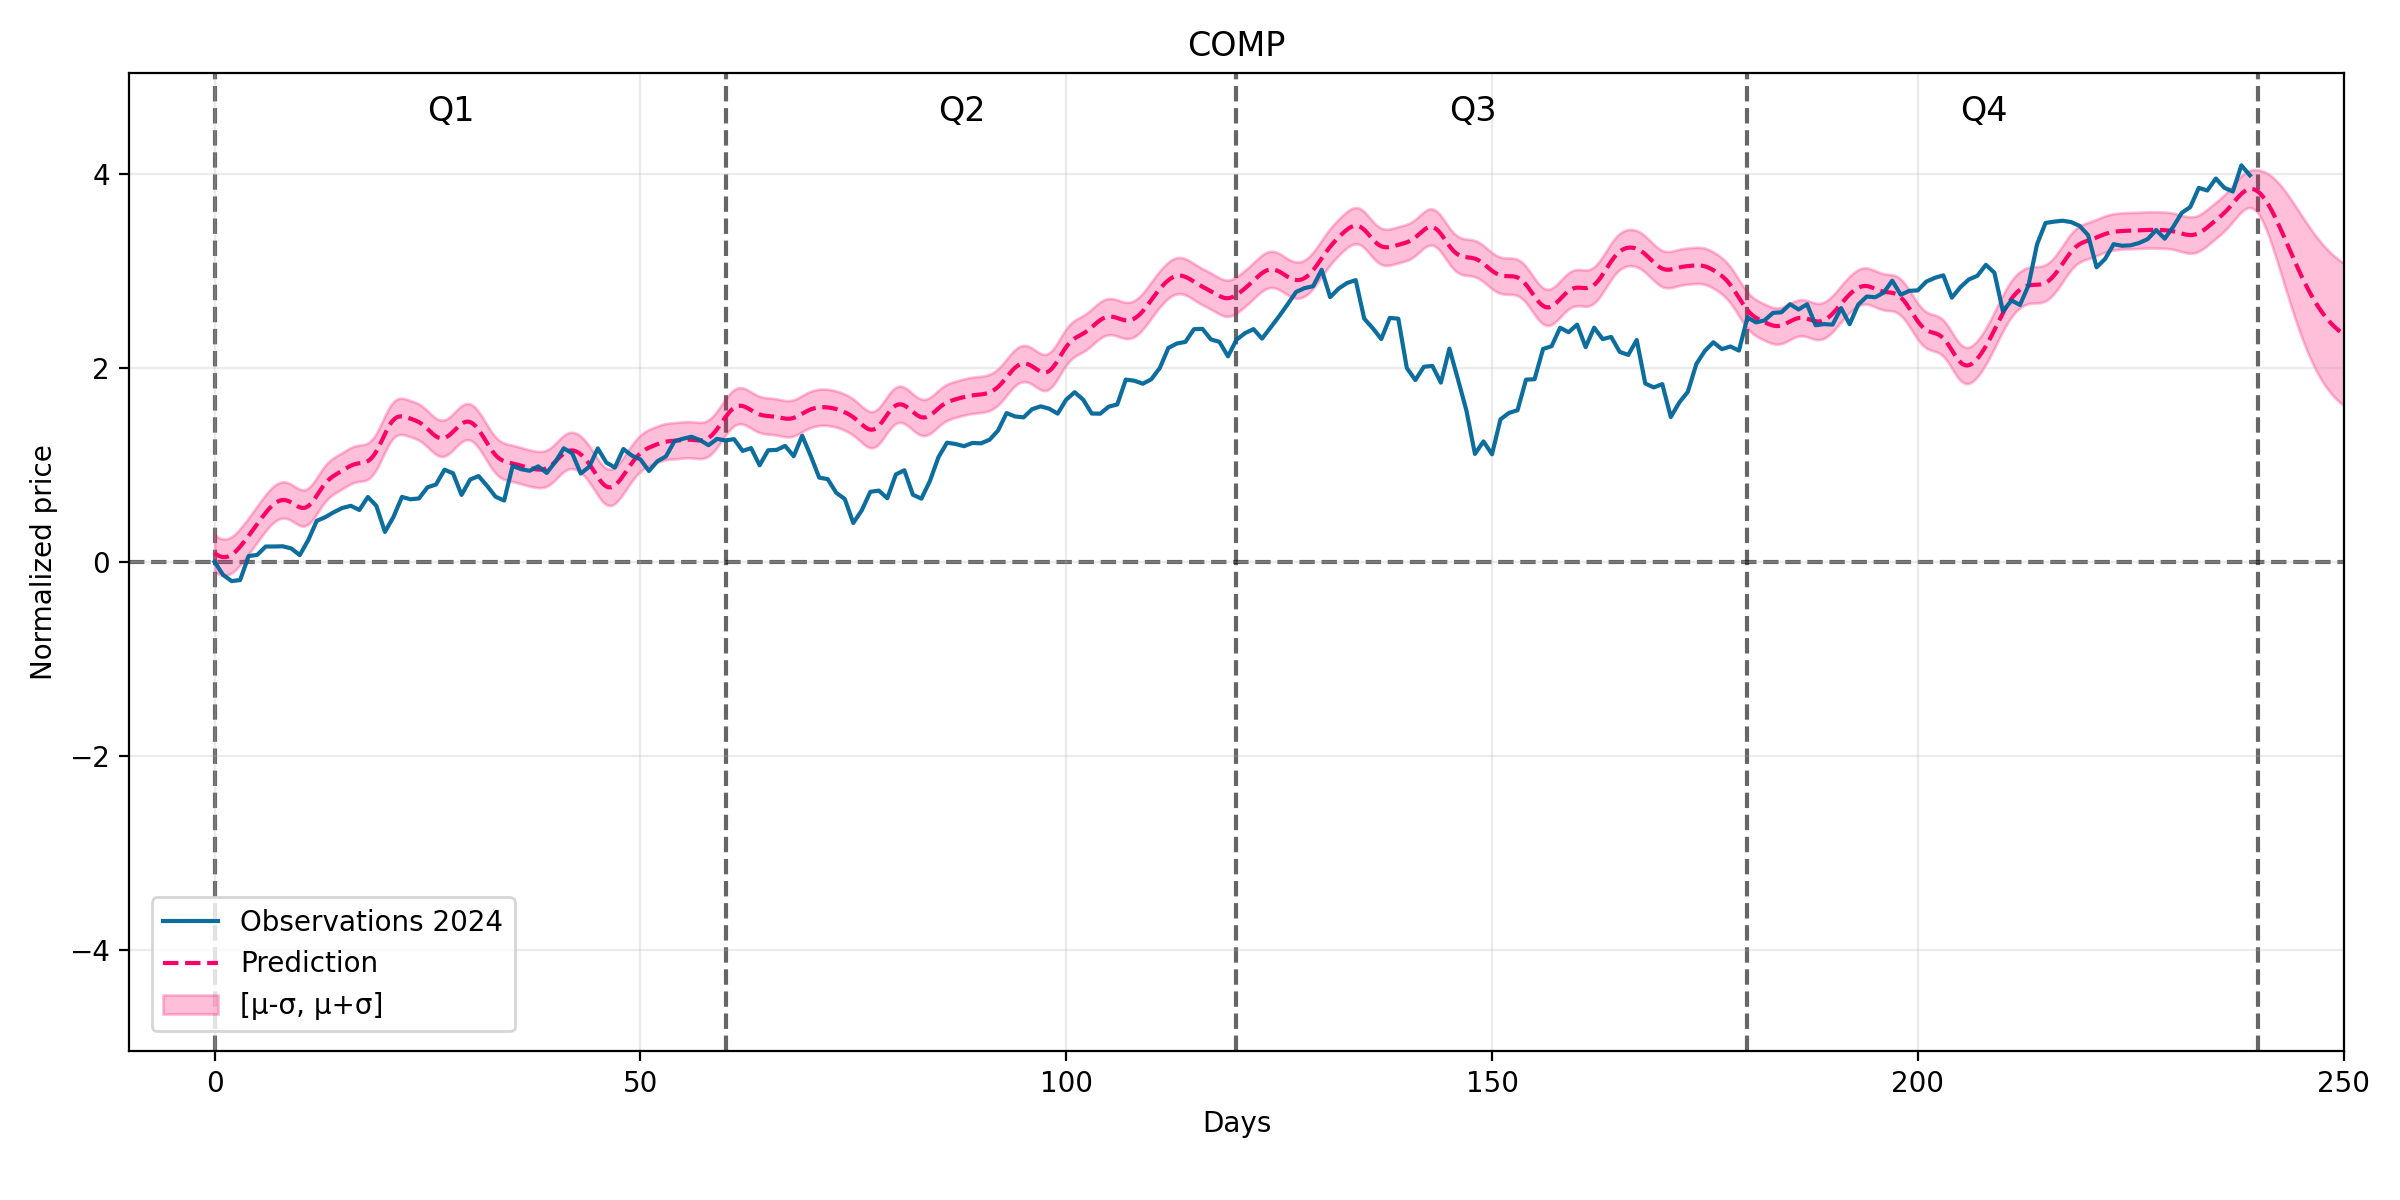
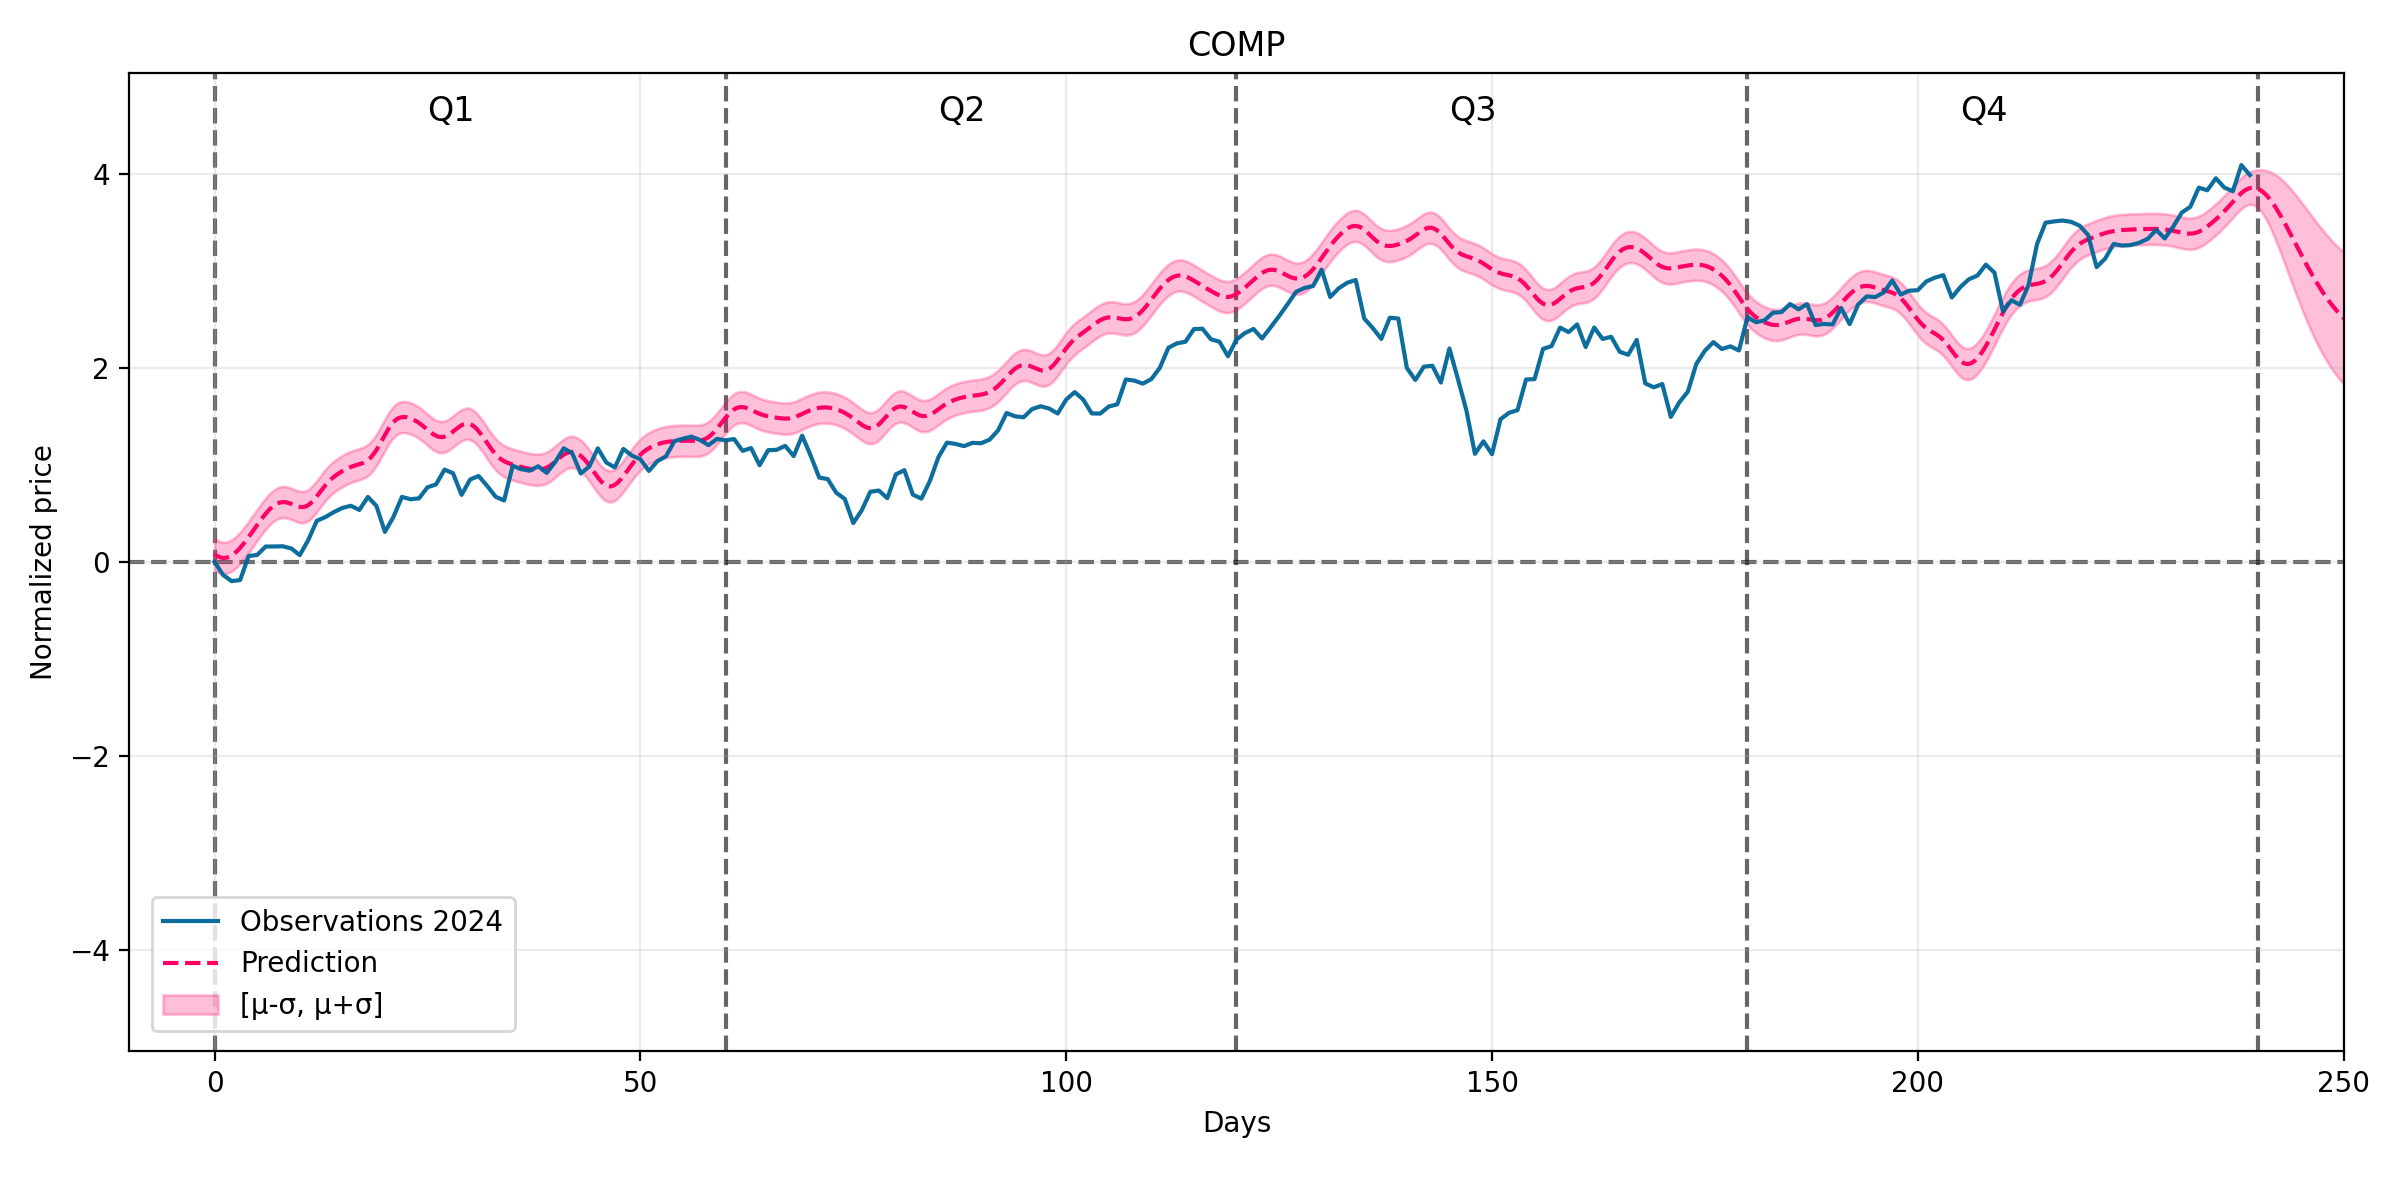
the Final

diff --git a/model/GaussianProcess.py b/model/GaussianProcess.py
@@ -12,23 +12,14 @@ class ExactGPModel(gpytorch.models.ExactGP):
     """
     def __init__(self, train_x, train_y, likelihood):
         super().__init__(train_x, train_y, likelihood)
-        # 均值函数
-#         self.mean_module = gpytorch.means.ConstantMean()
-#         # 卷积核函数，ScaleKernel 包裹 RBFKernel
-#         # self.covar_module = gpytorch.kernels.ScaleKernel(gpytorch.kernels.RBFKernel())
-#         #尝试不同的卷积核心函数
-#         self.covar_module = gpytorch.kernels.ScaleKernel(
-#     gpytorch.kernels.MaternKernel(nu=2.5,lengthscale=0.001)
-# )
-# 使用线性均值函数，拟合数据中的趋势
-        # 均值函数：线性均值函数，用于捕捉股票的长期趋势
+
         # __import__('ipdb').set_trace()
         self.mean_module = gpytorch.means.ConstantMean()
         
         # 卷积核函数：复合核函数，结合了不同的核函数
         self.covar_module = gpytorch.kernels.ScaleKernel(
             # Matern 核，适用于波动性
-            gpytorch.kernels.MaternKernel(nu=2.5, lengthscale=0.05) 
+            gpytorch.kernels.MaternKernel(nu=2.5, lengthscale=0.005) 
             + 
             # RBF 核，适用于平滑的长期趋势
             gpytorch.kernels.RBFKernel(lengthscale=0.1)
@@ -52,13 +43,11 @@ class GPR:
         self.years = self.company_data.years
         self.max_days = self.company_data.max_days
 
-        # GPyTorch 相关属性
         self.model = None
         self.likelihood = None
         self.kernels = []
 
-        # 训练迭代次数，可以根据需求调整
-        self.iterations = 80
+        self.iterations = 120
 
     def get_eval_model(self, start_year: int, end_year: int, pred_year: int, pred_quarters: list = None):
         """
@@ -69,16 +58,15 @@ class GPR:
         :param pred_quarters: 预测季度列表
         :return: (x_mesh, y_mean, y_cov)
         """
-        # 1. 准备训练数据 X, Y
+
         years_quarters = list(range(start_year, end_year + 1)) + ['Quarter']
         training_years = years_quarters[:-2]
-        #__import__('ipdb').set_trace()
         df_prices = self.prices_data[self.prices_data.columns.intersection(years_quarters)]#!升序的
-        #__import__('ipdb').set_trace()
+
 
         possible_days = list(df_prices.index.values)
         
-        # 处理第一个年份数据
+        # first year prices
         first_year_prices = df_prices[start_year]
         if start_year == self.company_data.years[0]:
             first_year_prices = first_year_prices[first_year_prices != 0]
@@ -86,18 +74,16 @@ class GPR:
                 pd.Series([0.0], index=[first_year_prices.index[0] - 1]),
                 first_year_prices
             ])
-        # __import__('ipdb').set_trace()
-        # 收集所有训练数据
+
         data_X = []
         data_Y = []
 
-        # 已经处理好的 first_year_prices
         first_year_days = first_year_prices.index.values
         for day in first_year_days:
             data_X.append([start_year, day])
         data_Y.extend(first_year_prices.values)
 
-        # 处理剩余年份
+        # other years prices
         for current_year in training_years[1:]:
             current_year_prices = df_prices[current_year].dropna().values
             current_year_days = possible_days[:len(current_year_prices)]
@@ -105,7 +91,7 @@ class GPR:
                 data_X.append([current_year, day])
             data_Y.extend(current_year_prices)
 
-        # 处理最后一年的数据
+        # last year prices
         last_year_prices = df_prices[end_year].dropna()
         if pred_quarters is not None:
             length = 63 * (pred_quarters[0] - 1)
@@ -118,7 +104,7 @@ class GPR:
         X = np.array(data_X)
         Y = np.array(data_Y)
 
-        # 2. 准备预测数据 x_pred
+        # predict days
         if pred_quarters is not None:
             pred_days = list(range(63 * (pred_quarters[0] - 1), 63 * pred_quarters[-1]))
         else:
@@ -127,28 +113,24 @@ class GPR:
         x_mesh = np.linspace(pred_days[0], pred_days[-1], 2000)
         x_pred = np.column_stack((np.full_like(x_mesh, pred_year), x_mesh))
 
-        # 3. 构建 GPyTorch 模型和似然函数
+        # 构建 GPyTorch 模型和似然函数
         self.likelihood = gpytorch.likelihoods.GaussianLikelihood()
         train_x = torch.from_numpy(X).float()
         train_y = torch.from_numpy(Y).float()
 
         self.model = ExactGPModel(train_x, train_y, self.likelihood)
 
-        # 4. 训练模型，使用 tqdm 显示进度
+
         self.model.train()
         self.likelihood.train()
 
-        # optimizer = torch.optim.Adam([
-        # {'params': self.model.mean_module.parameters(), 'lr': 0.08},  # 仅包含模型均值部分参数
-        # {'params': self.model.covar_module.parameters(), 'lr': 0.08}, # 仅包含模型协方差部分参数
-        # {'params': self.likelihood.parameters(), 'lr': 0.08},         # 仅包含似然部分参数
-        # ])
+
         optimizer = torch.optim.Adam([
-            {'params': self.model.parameters()},  # 模型参数
+            {'params': self.model.parameters()},  
         ], lr=0.1)
         mll = gpytorch.mlls.ExactMarginalLogLikelihood(self.likelihood, self.model)
 
-        # 训练循环
+        # Training
         for _ in tqdm(range(self.iterations), desc="Training GPyTorch GP", unit="iter"):
             optimizer.zero_grad()
             output = self.model(train_x)
@@ -158,7 +140,7 @@ class GPR:
             optimizer.step()
 
 
-        # 5. 预测
+        # eval
         self.model.eval()
         self.likelihood.eval()
 
@@ -168,14 +150,4 @@ class GPR:
             y_mean = observed_pred.mean.numpy()
             y_cov = observed_pred.variance.numpy()
 
-
-        # 存储核函数以便查看
-        self.kernels.append(self.model.covar_module)
-        #__import__('ipdb').set_trace()
         return x_mesh, y_mean, y_cov
-
-    def get_kernels(self):
-        """
-        返回所使用的核函数列表。
-        """
-        return self.kernels

diff --git a/model/dataset.py b/model/dataset.py
@@ -93,22 +93,19 @@ class csv_handler:
         grouped = df.groupby(df['Date'].dt.year)
         df['Norm Adj Close'] = grouped['Adj Close'].transform(lambda x: (x - x.mean()) / x.std())
 
-        df['Norm Adj Close'] = grouped['Norm Adj Close'].transform(lambda x: x - x.iloc[-1])        #__import__('ipdb').set_trace()
+        df['Norm Adj Close'] = grouped['Norm Adj Close'].transform(lambda x: x - x.iloc[-1])       
         return df['Norm Adj Close']
 
     def add_quarters(self, df):
         quarters_list = []
 
         for year in self.years:
-            # 筛选特定年份的数据
             dates = df.loc[df['Date'].dt.year == year, 'Date']
-            # 获取每个日期对应的季度
             quarters = [self.get_quarter(date.month) for date in dates]
-            # 将季度数据转换为 DataFrame 并添加到列表中
             quarters_df = pd.DataFrame(quarters)
             quarters_list.append(quarters_df)
 
-        # 一次性合并所有季度 DataFrame
+
         quarters = pd.concat(quarters_list, ignore_index=True)
 
         return quarters
@@ -117,7 +114,6 @@ class csv_handler:
         return self.quarters[(month - 1) // 3]
 
     def shift_first_year_prices(self):
-        #__import__('ipdb').set_trace()
         prices = pd.DataFrame(self.get_year_data(self.years[0])[::-1])
         df = pd.DataFrame([0 for _ in range(self.max_days - len(prices.index))])
         df = pd.concat([df, prices], ignore_index=True)

diff --git a/model/viz.py b/model/viz.py
@@ -101,7 +101,7 @@ class plotter:
                                                           pred_year=pred_year,
                                                           pred_quarters=pred_quarters)
         if self.isGpytorch:
-            #* 经验公式 [μ-σ, μ+σ] 为 95% 置信区间
+            #* [μ-σ, μ+σ] 
             #注意 y_cov的值是不一样的,但在数值上接近
             y_lower = y_mean - np.sqrt(y_cov)
             y_upper = y_mean + np.sqrt(y_cov)
@@ -153,8 +153,7 @@ class plotter:
 
     def show_time_series(self, start_year: int, end_year: int, intermediate: bool = True):
         self.validate_dates(start_year=start_year, end_year=end_year)
-        # if self.company_name == 'COMP':
-        #             __import__('ipdb').set_trace()
+
         prices_data = self.company_handler.get_whole_prices(start_year=start_year, end_year=end_year)
 
         fig = plt.figure(num=self.company_name + ' prices')
